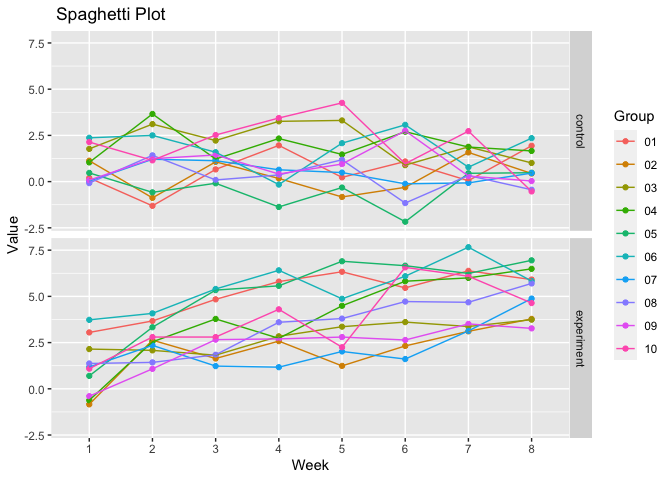
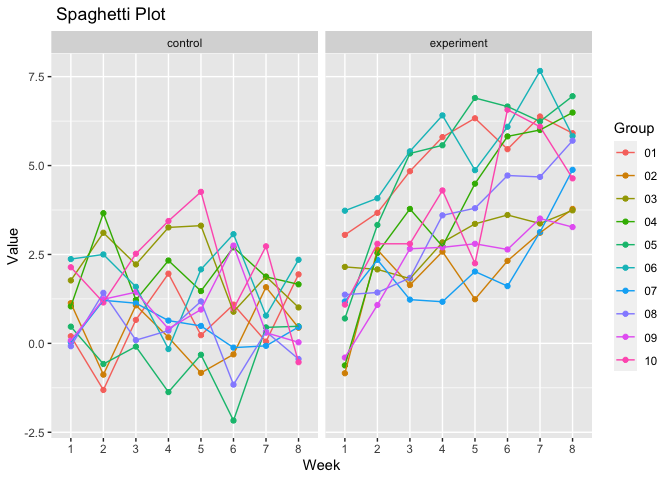
last check

diff --git a/p8105_hw5_yz4717.md b/p8105_hw5_yz4717.md
@@ -4,8 +4,8 @@ Yang Zhao - yz4717
 2023-11-12
 
 - [Problem 1](#problem-1)
-  - [Question 2](#question-2)
-  - [Question 3](#question-3)
+- [Question 2](#question-2)
+- [Question 3](#question-3)
 
 ``` r
 library(tidyverse)
@@ -133,7 +133,7 @@ The plot arrange the estimate of the proportion of unsolved homicides in
 city,state. Chicago has the highest estimate and small range of
 confidence interval.
 
-## Question 2
+# Question 2
 
 ``` r
 q2_filenames = 
@@ -151,6 +151,10 @@ data_q2 = tibble(
   separate(source, into = c("arm","subject_id"), sep = "_") |> 
   relocate(arm,subject_id)
 ```
+
+First, I listed all the file names via `list.files` and applied the map
+function to read all files in the founder. Besides, I added a variable
+`source` to track the data and made it into a reader friendly table.
 
 ``` r
 data_q2 |> 
@@ -172,12 +176,18 @@ data_q2 |>
        x = "Week",
        y = "Value",
        color = "Group")+
-  facet_grid(arm~.)
+  facet_grid(~arm)
 ```
 
 ![](p8105_hw5_yz4717_files/figure-gfm/q2_cleaned-1.png)<!-- -->
 
-## Question 3
+From the shown graph, in the control group, the data show some
+fluctuations, but on the whole, the data in the control group do not
+show any obvious upward or downward trend. However, within the
+experiment group, there is a obvious upward tendency. There is a
+significant difference between these two.
+
+# Question 3
 
 ``` r
 mu = 0
@@ -193,6 +203,16 @@ normtest = function(observations = 30,mu = 0,sigma = 5){
   return(result)
 }
 ```
+
+In the question 3, to avoid the redundancy, I wrote the simulation
+procedure that needed to be repeated, containing data cleaning, into a
+function called `normtest`.
+
+The function of `normtest` first generates 30 random numbers based on a
+normal distribution with `mean = 0` and `standard deviation = 5` ,
+followed by a two-sided hypothesis test with a 95% confidence level on
+the resulting samples. Cleaning and integration of the results is also
+included in this function.
 
 ``` r
 test_result = data_frame()
@@ -224,20 +244,22 @@ power_eff |>
   ggplot(aes(x = effect_size, y = power)) +
   geom_point() +
   geom_line() +
-  labs(title = "Effect Size & Power",
-       x = "Effect Size",
-       y = "Power") + 
-  theme_minimal()
+  labs(title = "Population Mean & Power",
+       x = "Population Mean",
+       y = "Power")
 ```
 
 ![](p8105_hw5_yz4717_files/figure-gfm/q3_power_plot-1.png)<!-- -->
+
+- comment: It is obvious that, as the population mean increasing, power
+  rise rapidly. As the power approaching 1, the slower it grows.
 
 ``` r
 mean_est = 
   as.vector(
   map(final_result,\(x) mean(x$estimate)) |> 
     unlist()
-)
+  )
 
 ave_and_true = 
   data.frame(mean_est,mu = 0:6)
@@ -247,12 +269,14 @@ ave_and_true |>
              y = mean_est)) +
   geom_point(color = "yellow") +
   geom_line(color = "yellow") +
-  labs(title = "Average Estimate & True Mean",
-       x = "True Mean",
+  labs(title = "Average Estimate & Population Mean",
+       x = "Population Mean",
        y = "Average Estimate") 
 ```
 
 ![](p8105_hw5_yz4717_files/figure-gfm/unnamed-chunk-7-1.png)<!-- -->
+
+At the first, we have to draw a line of population mean.
 
 ``` r
 reject_true = lapply(final_result,function(df){
@@ -269,19 +293,29 @@ rej_true_df =
 ggplot() +
   geom_point(data = ave_and_true,
              aes(x = mu, y = mean_est),
-             color = "red") +
+             color = "yellow") +
   geom_line(data = ave_and_true,
             aes(x = mu, y = mean_est),
-            color = "red") +
+            color = "yellow") +
   geom_point(data = rej_true_df,
              aes(x = true_mean, y = reject_true),
              color = "blue") +
   geom_line(data = rej_true_df,
             aes(x = true_mean, y = reject_true),
             color = "blue") +
-  labs(title = "Average Estimate vs. True Mean",
-       x = "True Mean",
+  labs(title = "Average Estimate & Population Mean",
+       x = "Population Mean",
        y = "Average Estimate")
 ```
 
-![](p8105_hw5_yz4717_files/figure-gfm/unnamed-chunk-8-1.png)<!-- -->
+![](p8105_hw5_yz4717_files/figure-gfm/q3_-1.png)<!-- -->
+
+- Comment: The yellow line represents the average estimate compared to
+  the population mean, indicating a close alignment between the two. On
+  the other hand, the blue line depicts the average estimate when the
+  null hypothesis is rejected versus the population mean. Notably, for
+  null rejections corresponding to mean values of 0, 1, 2, 3, 4, 5 and
+  6, the sample average does not closely approximate the population
+  mean. This discrepancy is attributed to insufficient statistical
+  power. The sample average estimate converges with the mean as
+  statistical power or effect size increases.
